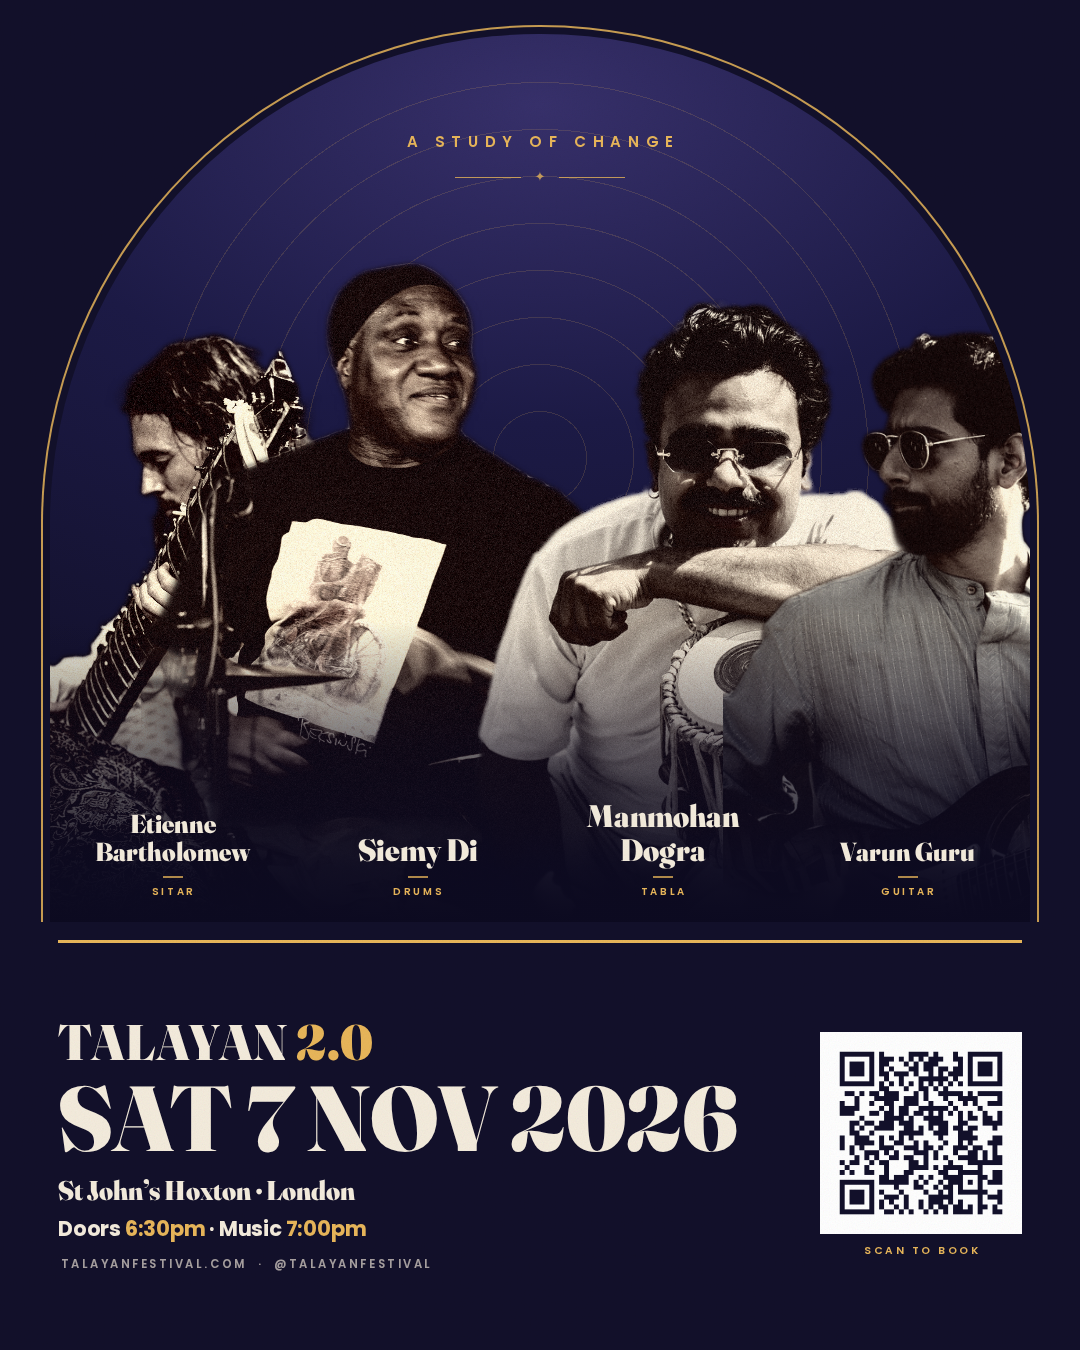
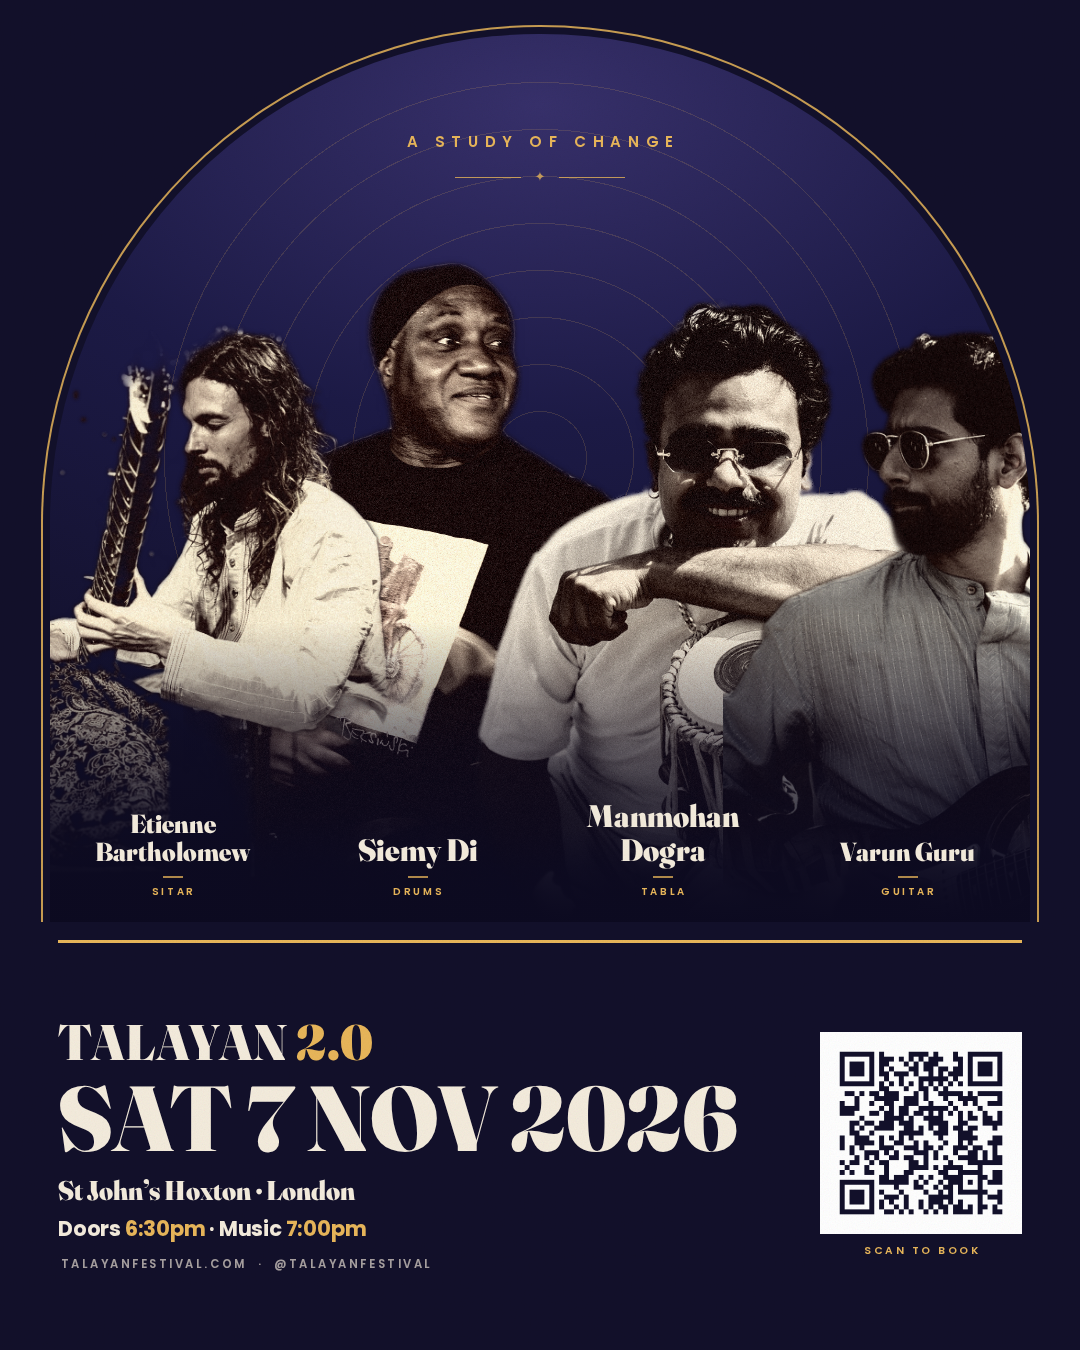
Bring Etienne to the front with a cutout that shows his face
He was the furthest back of the four, at the far left where the arch
curve clips, so Siemy's figure swallowed him. Two changes:

- he now sits in FRONT of the others rather than behind, and has been
  moved in from the arch's left edge
- new cutout from gallery-06, where the sitar neck runs beside his face
  instead of across it, so his face actually reads

rembg treats the sitar as background and drops it, and keying the blue
backdrop keeps half the set, so the matte is a composite: the person
matte from rembg, plus warm-hued pixels inside the sitar's region only.
The bottom fade is longer than the others' to hide the straight edge
that masking leaves on the gourd.

Claude-Session: https://claude.ai/code/session_017gXfoyVFSe9czp8NySF7qF

Changed region(s): [[0.0306, 0.1867, 0.5806, 0.6222]]

diff --git a/poster5/build.py b/poster5/build.py
@@ -38,10 +38,10 @@ def png_size(path):
 # the rest. `head` is where the face sits across the cutout, `cx` where that
 # face should land in the window. All four stand on the window's floor.
 ART = [
-    dict(key="etienne",  n="Etienne<br>Bartholomew", i="Sitar",
-         fh=596, head=0.30, cx=116, z=2),
+    dict(key="etienne_face", n="Etienne<br>Bartholomew", i="Sitar",
+         fh=600, head=0.52, cx=190, z=6),
     dict(key="siemy",    n="Siemy Di",               i="Drums",
-         fh=666, head=0.46, cx=350, z=3),
+         fh=666, head=0.46, cx=392, z=3),
     dict(key="manmohan_" + VARIANT, n="Manmohan<br>Dogra", i="Tabla",
          **{"A": dict(fh=606, head=0.47, cx=636),
             "B": dict(fh=690, head=0.55, cx=628),
@@ -52,7 +52,7 @@ ART = [
 ]
 for a in ART:
     # Manmohan has two candidate portraits; the others have one cutout each
-    a["file"] = (a["key"] + ".png" if a["key"].startswith("manmohan")
+    a["file"] = (a["key"] + ".png" if a["key"].startswith(("manmohan", "etienne_face"))
                  else a["key"] + "_solo.png")
     iw, ih = png_size(a["file"])
     a["h"] = a["fh"]
